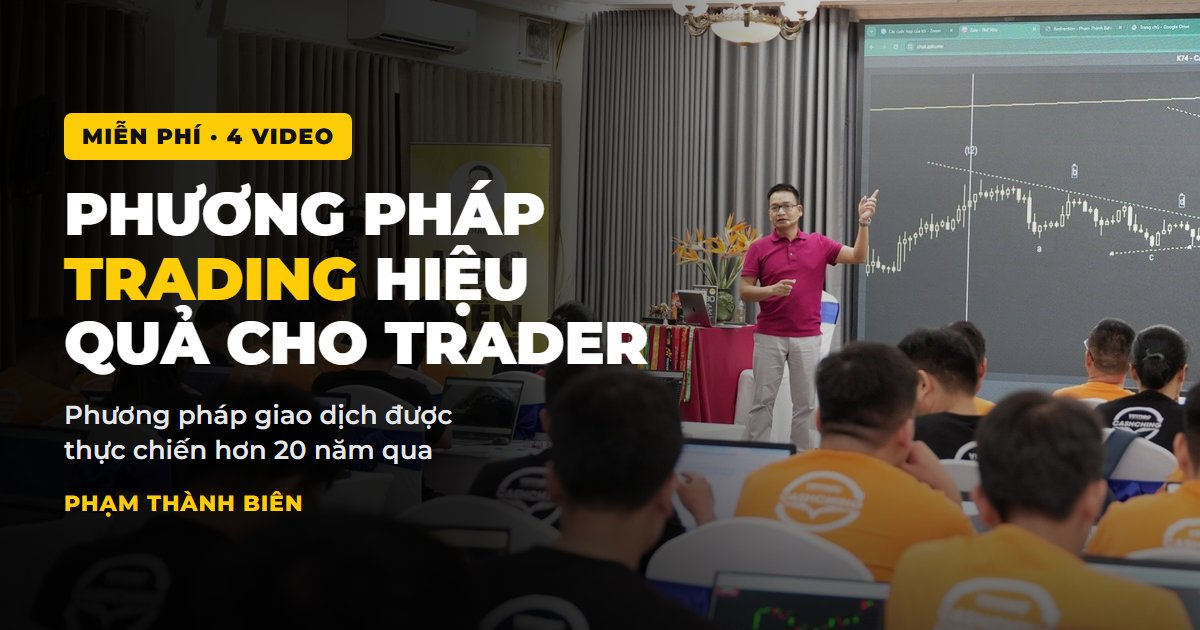
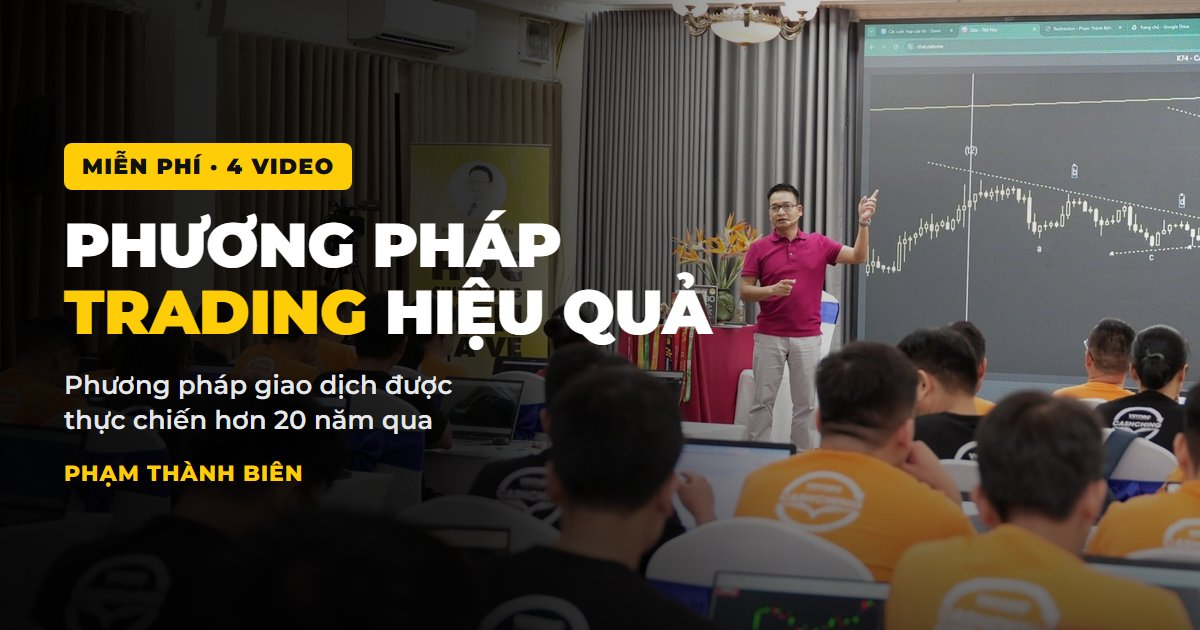
Trading: Zalo group QR, darker hero top band, shorter share-image title
- Zalo modal and tour finish step show the group QR (decodes to the same
  qytfxdjfgapmh7e4kppo group as the join link).
- dimHeroTop landing option: darker top band, a soft shadow pool and text shadow
  behind the heading for bright photos; the black fade below is unchanged.
- og-image.jpg title: "Phương pháp / Trading hiệu quả".

Changed region(s): [[0.0308, 0.1508, 0.6167, 0.8143]]

diff --git a/pages/dong-tien/src/features/optin/OptinLanding.tsx b/pages/dong-tien/src/features/optin/OptinLanding.tsx
@@ -34,6 +34,8 @@ export interface OptinContent {
   socialProofMessage: string;
   /** Share preview (Zalo, Messenger, Facebook): 1200x630 image under /public. */
   share?: { title: string; description: string; image: string; imageAlt: string };
+  /** Darker top band for bright photos, so the heading stays readable. */
+  dimHeroTop?: boolean;
   /** Keeps title, subtitle and limit on one line each from tablet width up. */
   singleLineHeading?: boolean;
 }
@@ -614,7 +616,7 @@ export default function OptinLanding({ content }: { content: OptinContent }) {
 
       <div className={styles.pageRoot}>
         {/* ═══ HERO ═══ */}
-        <section className={styles.hero}>
+        <section className={`${styles.hero} ${content.dimHeroTop ? styles.heroDimTop : ""}`}>
           {/* Background image */}
           <img
             src={content.heroImage}

diff --git a/pages/dong-tien/src/styles/dong-tien-v2.module.css b/pages/dong-tien/src/styles/dong-tien-v2.module.css
@@ -52,6 +52,26 @@
   pointer-events: none;
 }
 
+/* Bright photos (ceiling lights): a darker top band and a soft shadow pool behind the
+   heading, fading into the same black bottom, so the text stands out. */
+.heroDimTop .heroBgOverlay {
+  background:
+    radial-gradient(ellipse 70% 260px at 50% 110px, rgba(0, 0, 0, 0.45), transparent 75%),
+    linear-gradient(
+      to bottom,
+      rgba(0, 0, 0, 0.85) 0%,
+      rgba(0, 0, 0, 0.62) 260px,
+      rgba(0, 0, 0, 0.58) 55%,
+      #000000 100%
+    );
+}
+
+.heroDimTop .heroTitle,
+.heroDimTop .heroSub,
+.heroDimTop .heroLimit {
+  text-shadow: 0 2px 14px rgba(0, 0, 0, 0.65);
+}
+
 /* Top heading block - centered */
 .heroTop {
   position: relative;

diff --git a/pages/dong-tien/src/lib/courses.ts b/pages/dong-tien/src/lib/courses.ts
@@ -50,6 +50,7 @@ export const COURSES: Record<CourseId, CourseConfig> = {
       // Group link from the former /trading thank-you page.
       url: 'https://zalo.me/g/qytfxdjfgapmh7e4kppo?joinSrc=9',
       groupName: 'PHƯƠNG PHÁP TRADING HIỆU QUẢ',
+      qrImage: '/trading/zalo-qr.jpg',
     },
     tour: {
       welcomeTitle: 'Chào mừng bạn đến với Phương pháp Trading hiệu quả',

diff --git a/pages/dong-tien/src/pages/trading/index.tsx b/pages/dong-tien/src/pages/trading/index.tsx
@@ -10,6 +10,7 @@ const content: OptinContent = {
   title: "PHƯƠNG PHÁP TRADING HIỆU QUẢ CHO TRADER",
   subtitle: "Phương pháp giao dịch được Phạm Thành Biên thực chiến hơn 20 năm qua",
   singleLineHeading: true,
+  dimHeroTop: true,
   share: {
     title: "Phương pháp Trading hiệu quả cho Trader | Phạm Thành Biên",
     description:
